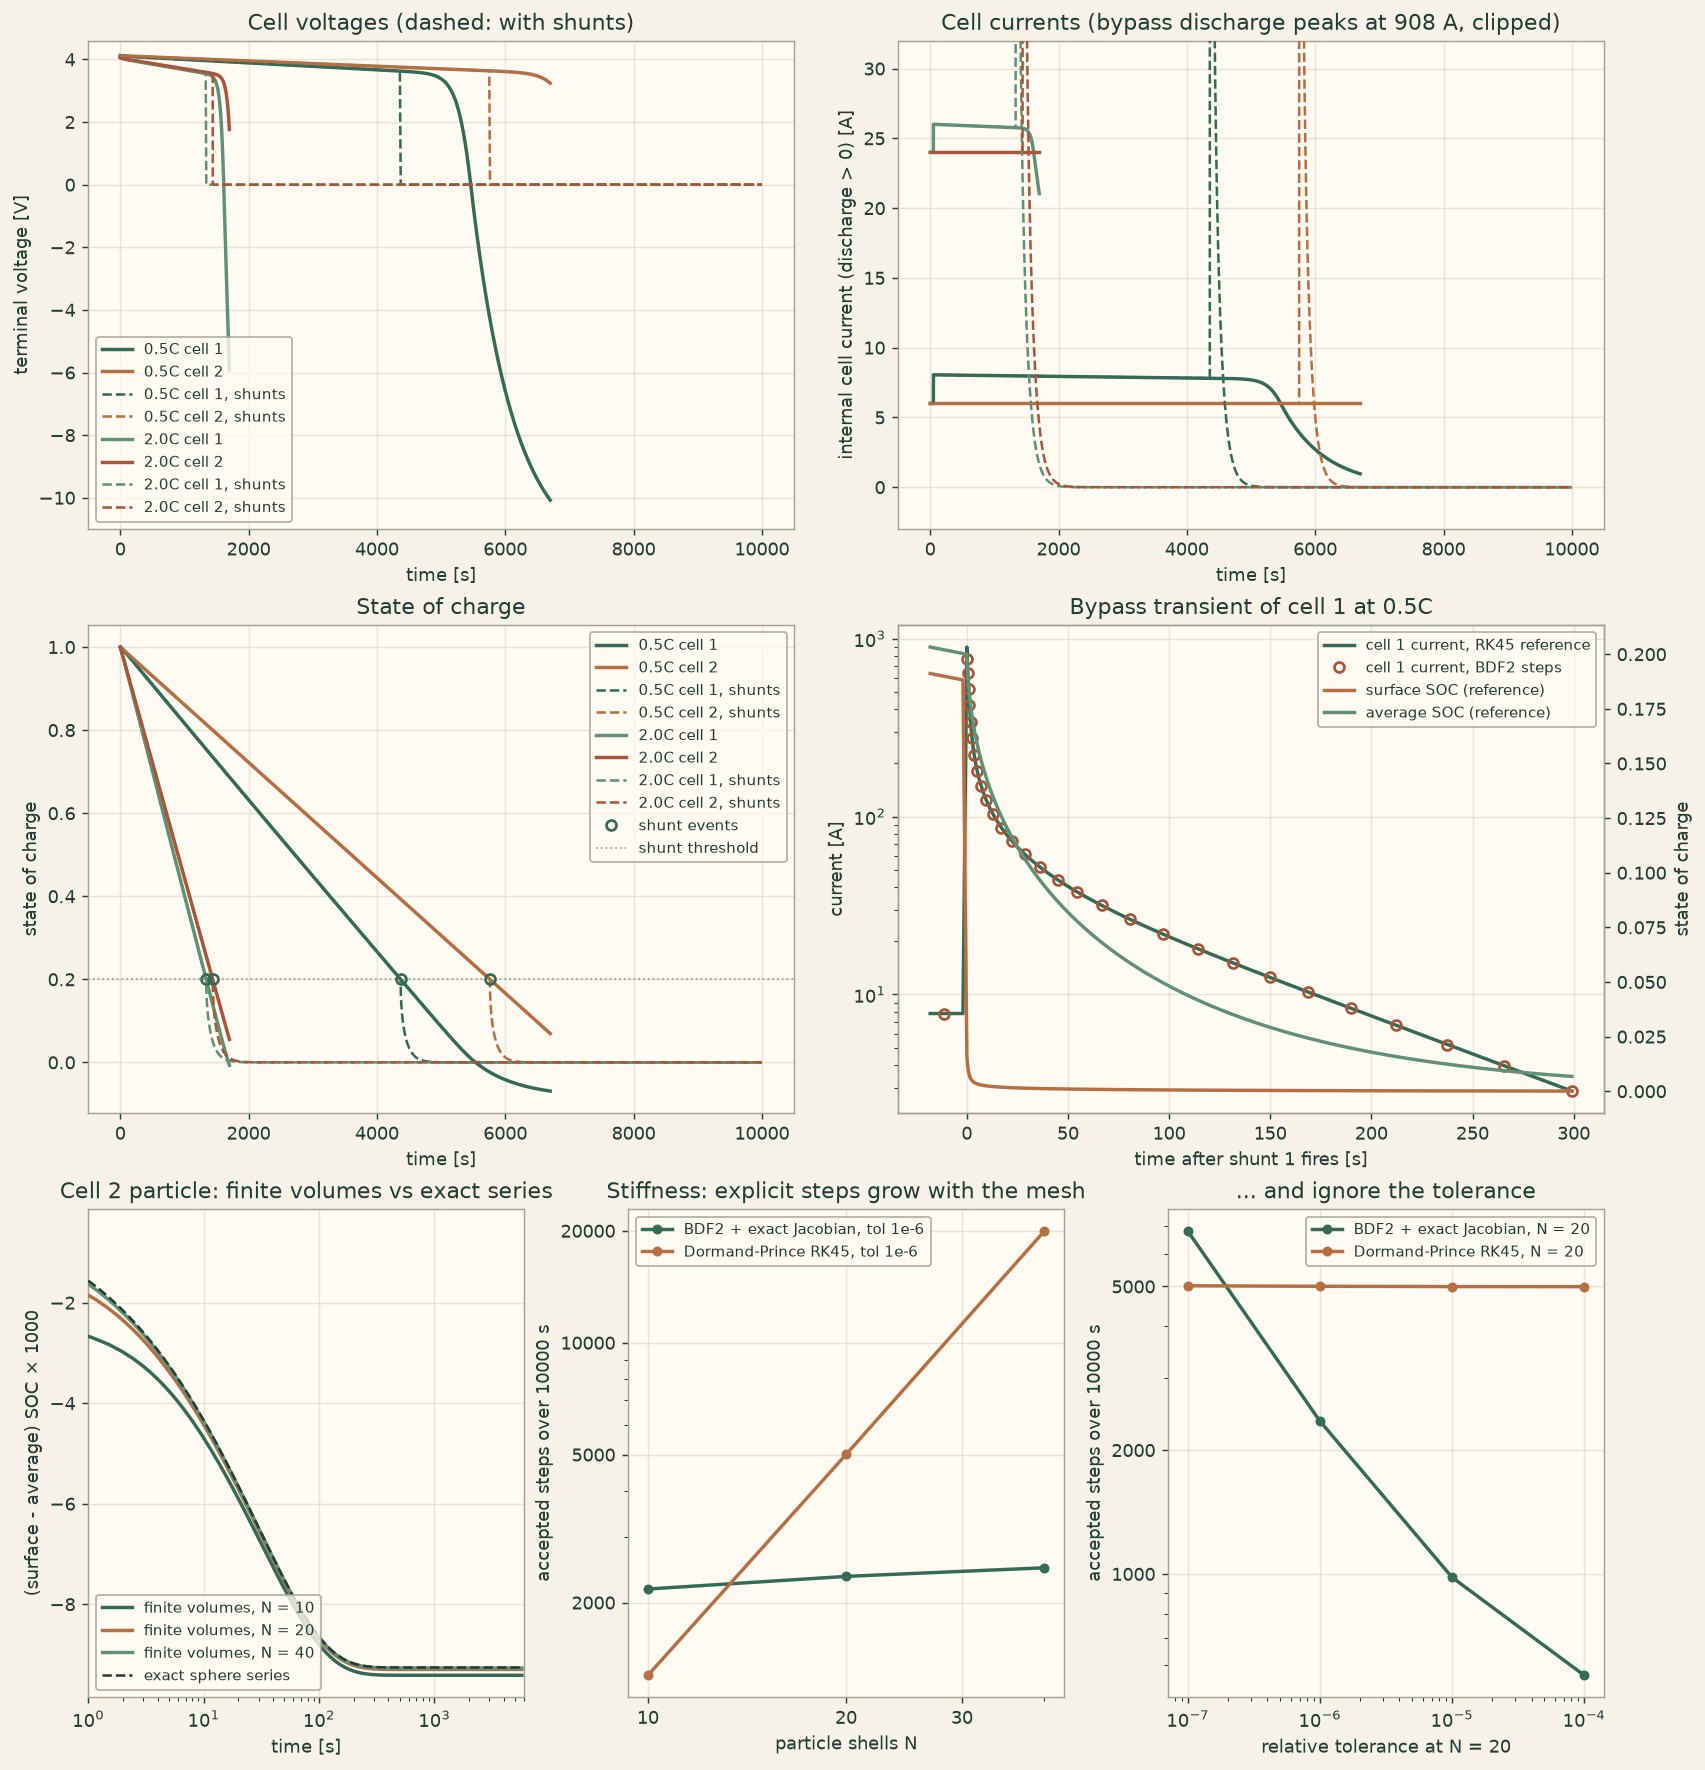
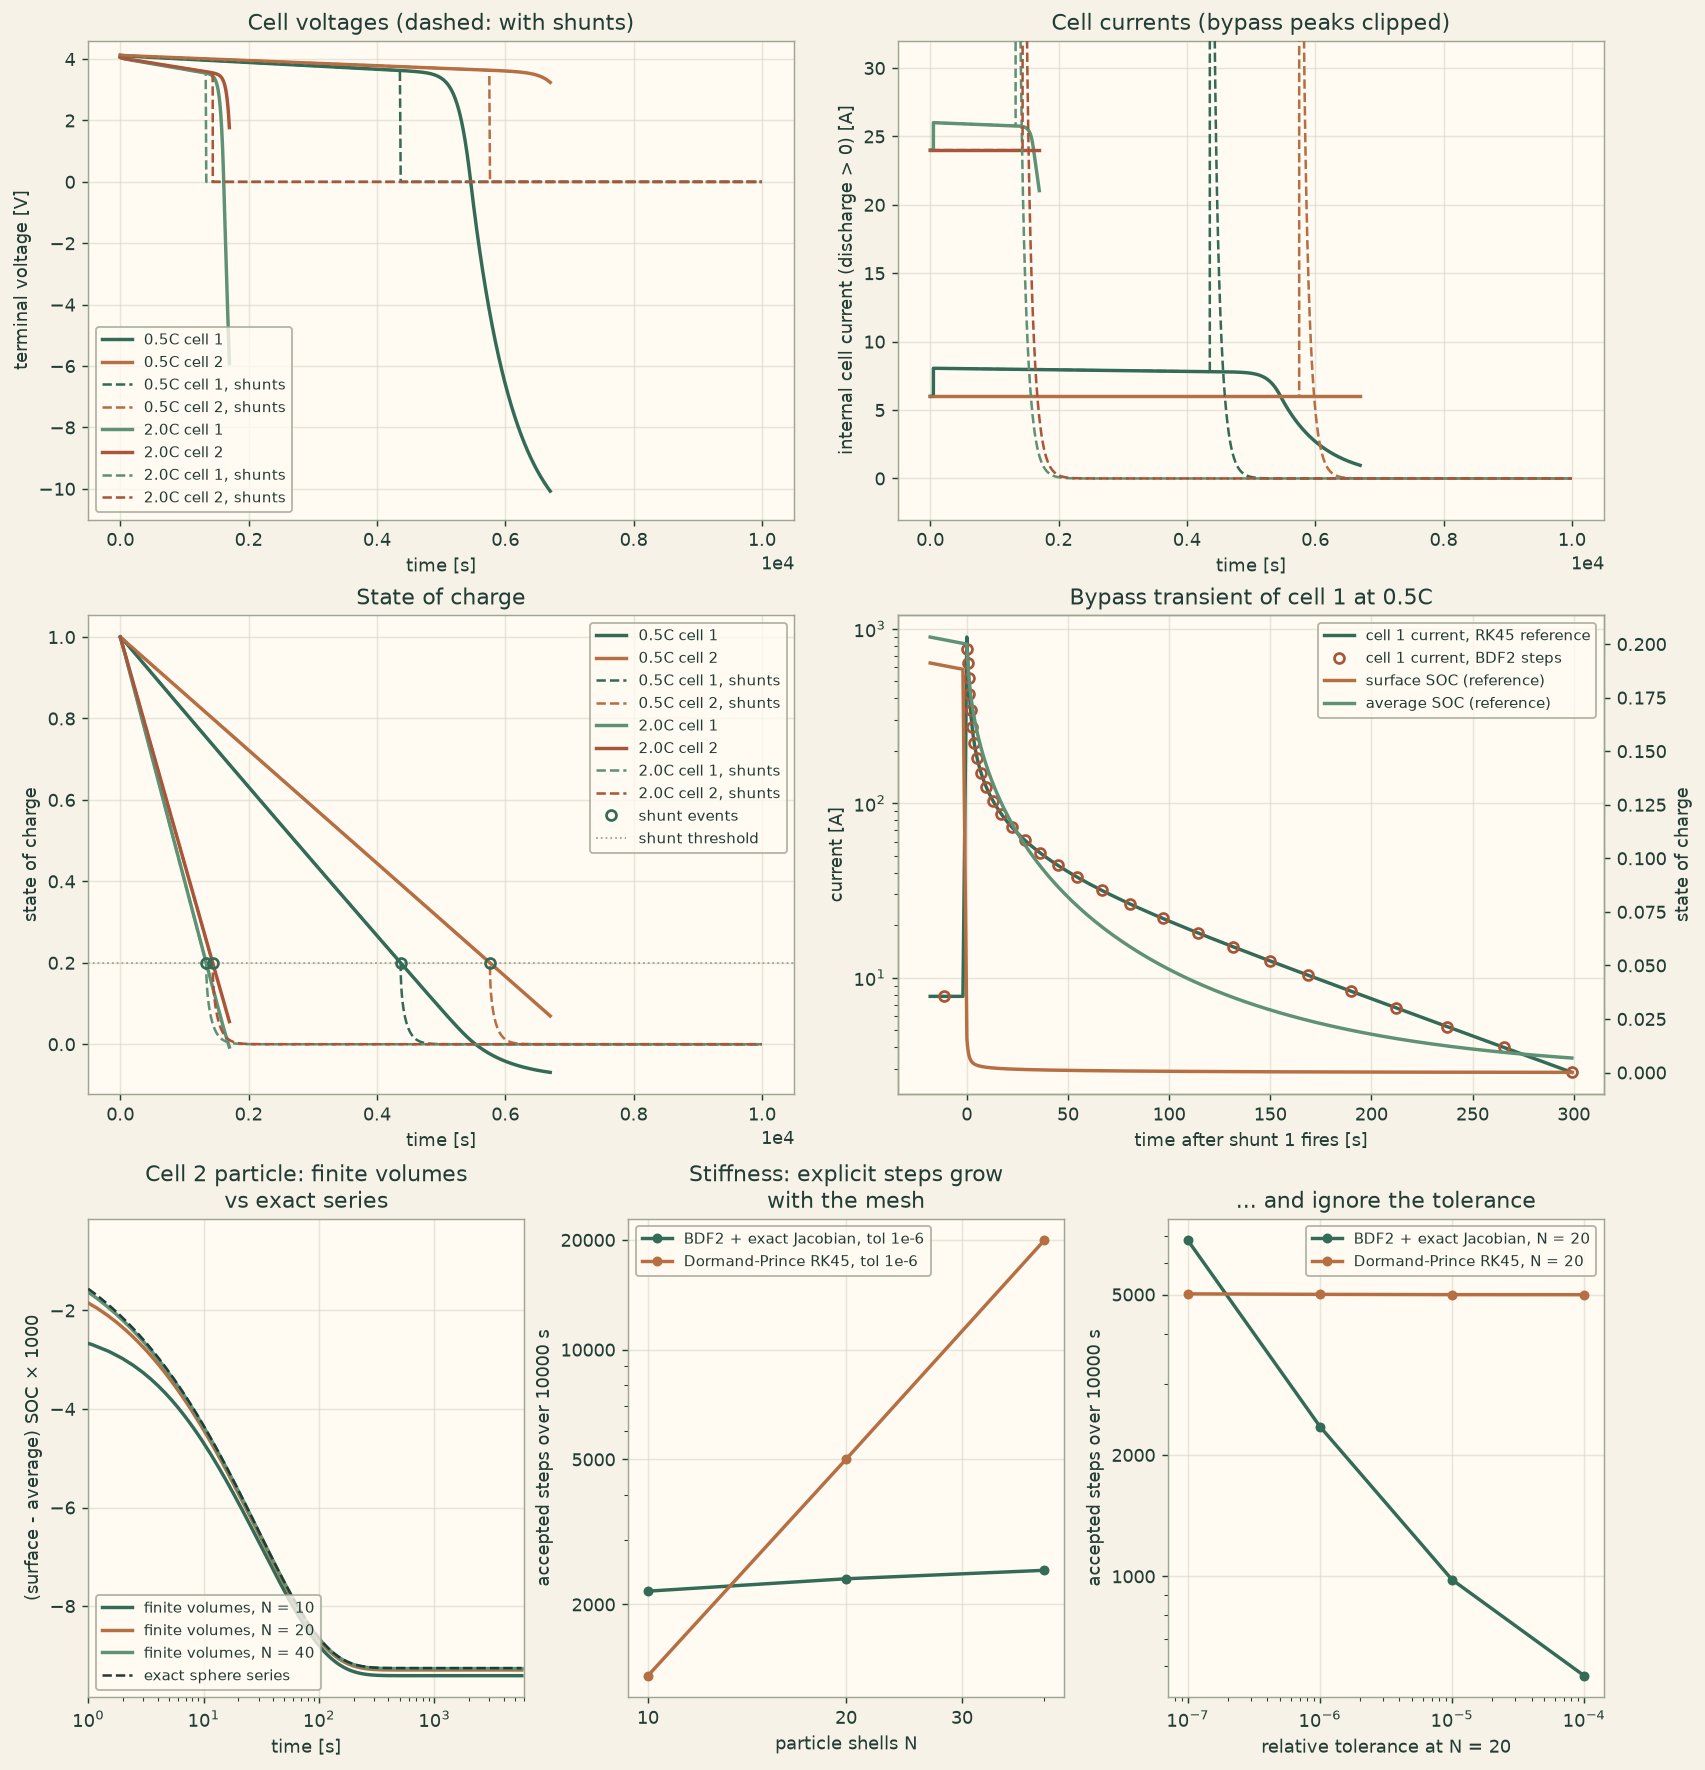
Show the battery shunt notebook with the shortened title

diff --git a/examples/notebooks/battery_shunt_overdischarge.html b/examples/notebooks/battery_shunt_overdischarge.html
@@ -339,7 +339,7 @@
            <span class="n">ylabel</span><span class="o">=</span><span class="s2">&quot;terminal voltage [V]&quot;</span><span class="p">,</span> <span class="n">title</span><span class="o">=</span><span class="s2">&quot;Cell voltages (dashed: with shunts)&quot;</span><span class="p">,</span> <span class="n">legend</span><span class="o">=</span><span class="s2">&quot;lower left&quot;</span><span class="p">,</span> <span class="n">ax</span><span class="o">=</span><span class="n">fig</span><span class="p">[</span><span class="s2">&quot;voltage&quot;</span><span class="p">])</span>
 <span class="n">plots</span><span class="o">.</span><span class="n">line</span><span class="p">(</span><span class="n">y</span><span class="o">=</span><span class="n">history</span><span class="p">(</span><span class="s2">&quot;current&quot;</span><span class="p">),</span> <span class="n">colors</span><span class="o">=</span><span class="n">colors</span><span class="p">,</span> <span class="n">styles</span><span class="o">=</span><span class="n">dashed</span><span class="p">,</span> <span class="n">ylimits</span><span class="o">=</span><span class="p">(</span><span class="o">-</span><span class="mi">3</span><span class="p">,</span> <span class="mi">32</span><span class="p">),</span> <span class="n">xlabel</span><span class="o">=</span><span class="s2">&quot;time [s]&quot;</span><span class="p">,</span>
            <span class="n">ylabel</span><span class="o">=</span><span class="s2">&quot;internal cell current (discharge &gt; 0) [A]&quot;</span><span class="p">,</span> <span class="n">legend</span><span class="o">=</span><span class="kc">False</span><span class="p">,</span> <span class="n">ax</span><span class="o">=</span><span class="n">fig</span><span class="p">[</span><span class="s2">&quot;current&quot;</span><span class="p">],</span>
-           <span class="n">title</span><span class="o">=</span><span class="sa">f</span><span class="s2">&quot;Cell currents (bypass discharge peaks at </span><span class="si">{</span><span class="n">reference</span><span class="p">[</span><span class="s1">&#39;current&#39;</span><span class="p">]</span><span class="o">.</span><span class="n">max</span><span class="p">()</span><span class="si">:</span><span class="s2">.0f</span><span class="si">}</span><span class="s2"> A, clipped)&quot;</span><span class="p">)</span>
+           <span class="n">title</span><span class="o">=</span><span class="s2">&quot;Cell currents (bypass peaks clipped)&quot;</span><span class="p">)</span>
 <span class="n">plots</span><span class="o">.</span><span class="n">line</span><span class="p">(</span><span class="n">y</span><span class="o">=</span><span class="n">history</span><span class="p">(</span><span class="s2">&quot;soc&quot;</span><span class="p">),</span> <span class="n">colors</span><span class="o">=</span><span class="n">colors</span><span class="p">,</span> <span class="n">styles</span><span class="o">=</span><span class="n">dashed</span><span class="p">,</span> <span class="n">points</span><span class="o">=</span><span class="p">{</span><span class="s2">&quot;shunt events&quot;</span><span class="p">:</span> <span class="p">(</span><span class="n">events</span><span class="p">,</span> <span class="n">np</span><span class="o">.</span><span class="n">full</span><span class="p">(</span><span class="nb">len</span><span class="p">(</span><span class="n">events</span><span class="p">),</span> <span class="n">threshold</span><span class="p">))},</span>
            <span class="n">hlines</span><span class="o">=</span><span class="p">{</span><span class="s2">&quot;shunt threshold&quot;</span><span class="p">:</span> <span class="n">threshold</span><span class="p">},</span> <span class="n">xlabel</span><span class="o">=</span><span class="s2">&quot;time [s]&quot;</span><span class="p">,</span> <span class="n">ylabel</span><span class="o">=</span><span class="s2">&quot;state of charge&quot;</span><span class="p">,</span>
            <span class="n">title</span><span class="o">=</span><span class="s2">&quot;State of charge&quot;</span><span class="p">,</span> <span class="n">legend</span><span class="o">=</span><span class="s2">&quot;upper right&quot;</span><span class="p">,</span> <span class="n">ax</span><span class="o">=</span><span class="n">fig</span><span class="p">[</span><span class="s2">&quot;soc&quot;</span><span class="p">])</span>

diff --git a/notebooks/battery_shunt_overdischarge.py b/notebooks/battery_shunt_overdischarge.py
@@ -445,7 +445,7 @@ plots.line(y=history("voltage"), colors=colors, styles=dashed, ylimits=(-11, 4.6
            ylabel="terminal voltage [V]", title="Cell voltages (dashed: with shunts)", legend="lower left", ax=fig["voltage"])
 plots.line(y=history("current"), colors=colors, styles=dashed, ylimits=(-3, 32), xlabel="time [s]",
            ylabel="internal cell current (discharge > 0) [A]", legend=False, ax=fig["current"],
-           title=f"Cell currents (bypass discharge peaks at {reference['current'].max():.0f} A, clipped)")
+           title="Cell currents (bypass peaks clipped)")
 plots.line(y=history("soc"), colors=colors, styles=dashed, points={"shunt events": (events, np.full(len(events), threshold))},
            hlines={"shunt threshold": threshold}, xlabel="time [s]", ylabel="state of charge",
            title="State of charge", legend="upper right", ax=fig["soc"])
